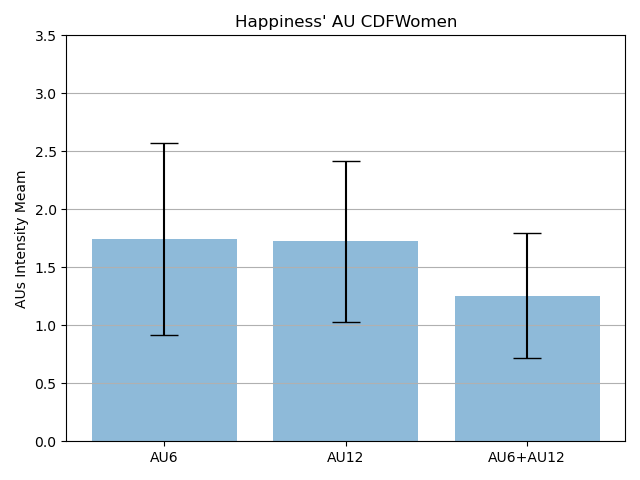
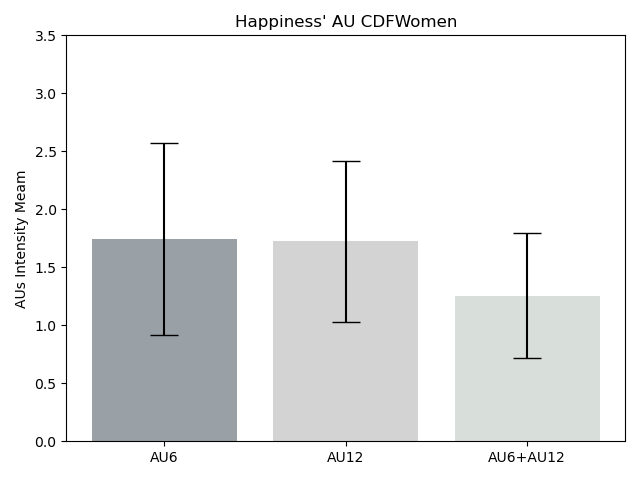
testes

Changed region(s): [[0.4062, 0.5, 0.6562, 0.9375], [0.125, 0.5, 0.375, 0.9375], [0.6875, 0.5938, 0.9375, 0.9375]]

diff --git a/src/run_main.py b/src/run_main.py
@@ -167,20 +167,24 @@ def getHappiness(au6, au12, auConj, imgDataset):
     materials = ['AU6', 'AU12', 'AU6+AU12']
     x_pos = np.arange(len(materials))
 
+    c = ["#36454F", "#A9A9A9", "#B2BEB5"]
+
     # Build the plot
     fig, ax = plt.subplots()
-    ax.bar(x_pos, CTEs, yerr=error, align='center', alpha=0.5, ecolor='black', capsize=10)
+    ax.bar(x_pos, CTEs, yerr=error, align='center', alpha=0.5, ecolor='black', color=c, capsize=10)
     ax.set_ylabel('AUs Intensity Meam')
     ax.set_xticks(x_pos)
     ax.set_xticklabels(materials)
     ax.set_title("Happiness' AU " + imgDataset)
-    ax.yaxis.grid(True)
+    # ax.yaxis.grid(True)
 
     plt.ylim([0,3.5])
+    # plt.axis('off')
 
     # Save the figure and show
     plt.tight_layout()
     plt.savefig('charts/barplot_' + imgDataset + '_Happy.png')
+    
     # plt.show()
 
     plt.clf()
